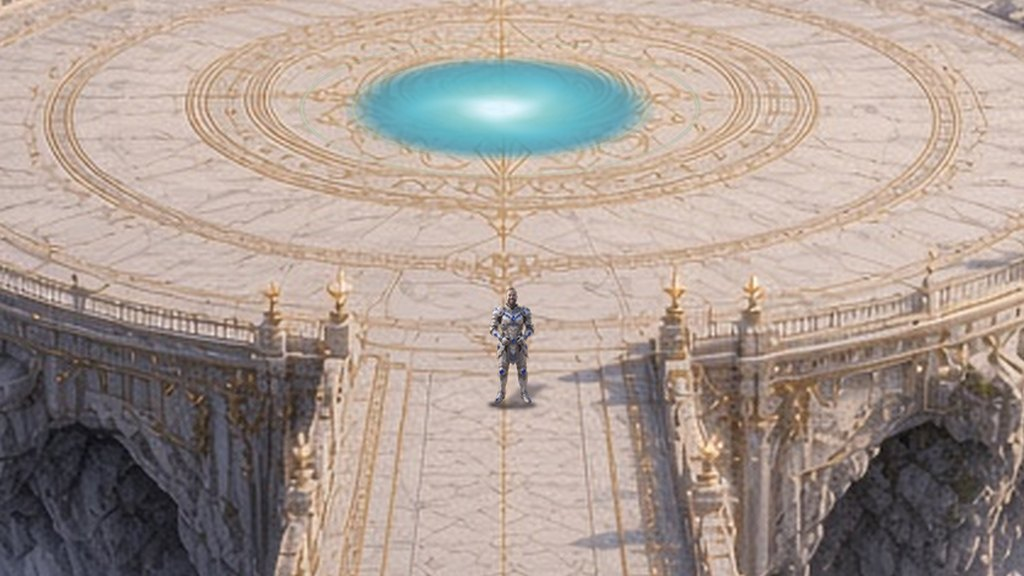
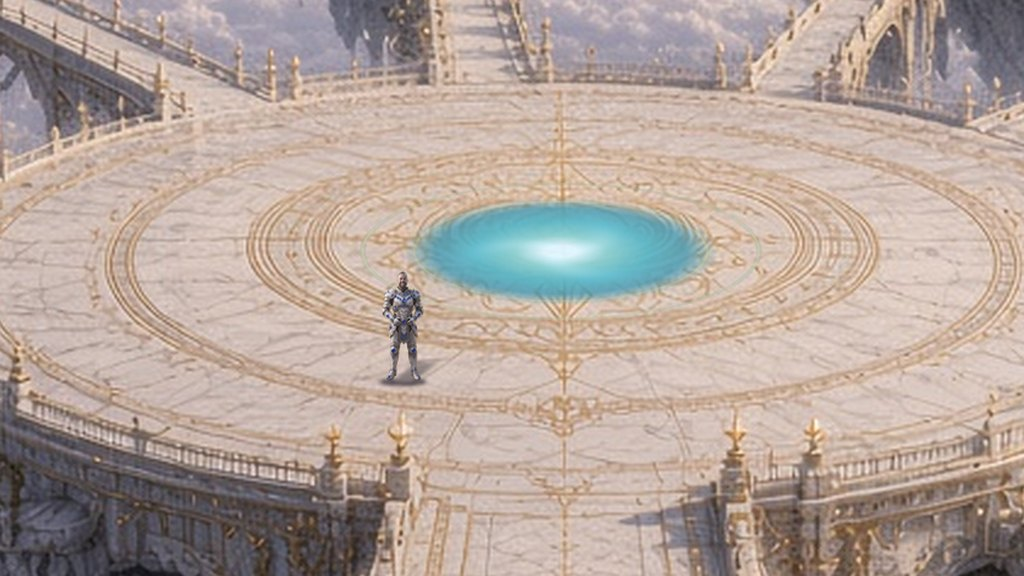
Aretoria v58: Irishnu cards — he now stands on the plaza beside the blue rune portal, arriving from the entrance walkway (not on Shadow's path); same walkway scale, blue swirl kept (SW aretoria-v33)

diff --git a/aretoria.test.js b/aretoria.test.js
@@ -130,7 +130,7 @@ const noComments = (t) => t.replace(/\/\*[\s\S]*?\*\//g, '').replace(/^\s*\/\/.*
   assert('no MEC calendar / CaptainLog UI on page', !/month-grid|captains-log|panel-calendar|Modern Era Calendar/.test(html));
   assert('Irishnu mentioned as the Guide on landing', /Irishnu the Guide/.test(html));
   assert('boot imports openAretoria and registers SW', /openAretoria/.test(boot) && /sw\.js\?v=18/.test(boot));
-  assert('SW is aretoria-v32', /aretoria-v32/.test(sw) && !/aretoria-v17/.test(sw) && !/mec-v/.test(sw) && !/captains-log/.test(sw));
+  assert('SW is aretoria-v33', /aretoria-v33/.test(sw) && !/aretoria-v17/.test(sw) && !/mec-v/.test(sw) && !/captains-log/.test(sw));
   assert('SW precaches Aretoria code + shell', ['aretoria.js', 'aretoria-data.js', 'aretoria-art.js', 'aretoria.css', 'boot.js', 'shell.css'].every((f) => sw.includes(`./${f}`)));
   assert('SW does not precache portraits/guardians/realms', !/assets\/aretoria\/[^']*\.jpg/.test(noComments(sw)) && !/guardians\//.test(noComments(sw)) && !/realms\//.test(noComments(sw)));
   assert('aretoria.js VERSION = 19', /const VERSION = 19;/.test(src('./aretoria.js')));

diff --git a/sw.js b/sw.js
@@ -1,5 +1,5 @@
-/* Aretoria standalone service worker — network-first app shell (aretoria-v32) */
-const CACHE = 'aretoria-v32';
+/* Aretoria standalone service worker — network-first app shell (aretoria-v33) */
+const CACHE = 'aretoria-v33';
 /* Portrait/shrine/guardian/realm images (assets/aretoria/) are deliberately NOT precached;
    they are fetched only when the portal is entered, then kept by the runtime cache. */
 const ASSETS = [
